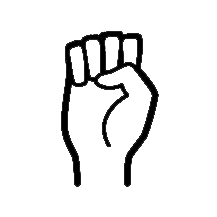
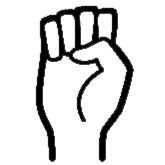
Fixed image scaling, added vibration on finish

Changed region(s): [[0.2121, 0.0303, 0.8182, 1.0]]

diff --git a/signML/screens/DataScreen.tsx b/signML/screens/DataScreen.tsx
@@ -8,6 +8,7 @@ import {
   AppState,
   Alert,
   Image,
+  Vibration,
 } from "react-native";
 import { Camera } from "expo-camera";
 import { showMessage, hideMessage } from "react-native-flash-message";
@@ -15,6 +16,7 @@ import * as MediaLibrary from "expo-media-library";
 import * as Permissions from "expo-permissions";
 import { useIsFocused } from "@react-navigation/native";
 import * as Linking from "expo-linking";
+import * as Brightness from "expo-brightness";
 
 import colors from "../utils/theme";
 import API from "../utils/API";
@@ -50,6 +52,7 @@ const PracticeScreen = () => {
 
   useEffect(() => {
     if (imageCount >= 10) {
+      Vibration.vibrate(); //vibrate over image count
       showMessage({
         message: "All images for this letter done, please move to next letter!",
         type: "success",
@@ -140,10 +143,9 @@ const PracticeScreen = () => {
             <Image
               source={LETTERS[selectedLetter]}
               style={{
-                width: 300,
-                height: 300,
+                width: "100%",
+                height: "100%",
                 alignSelf: "center",
-                marginTop: -25,
               }}
             />
           </Camera>
